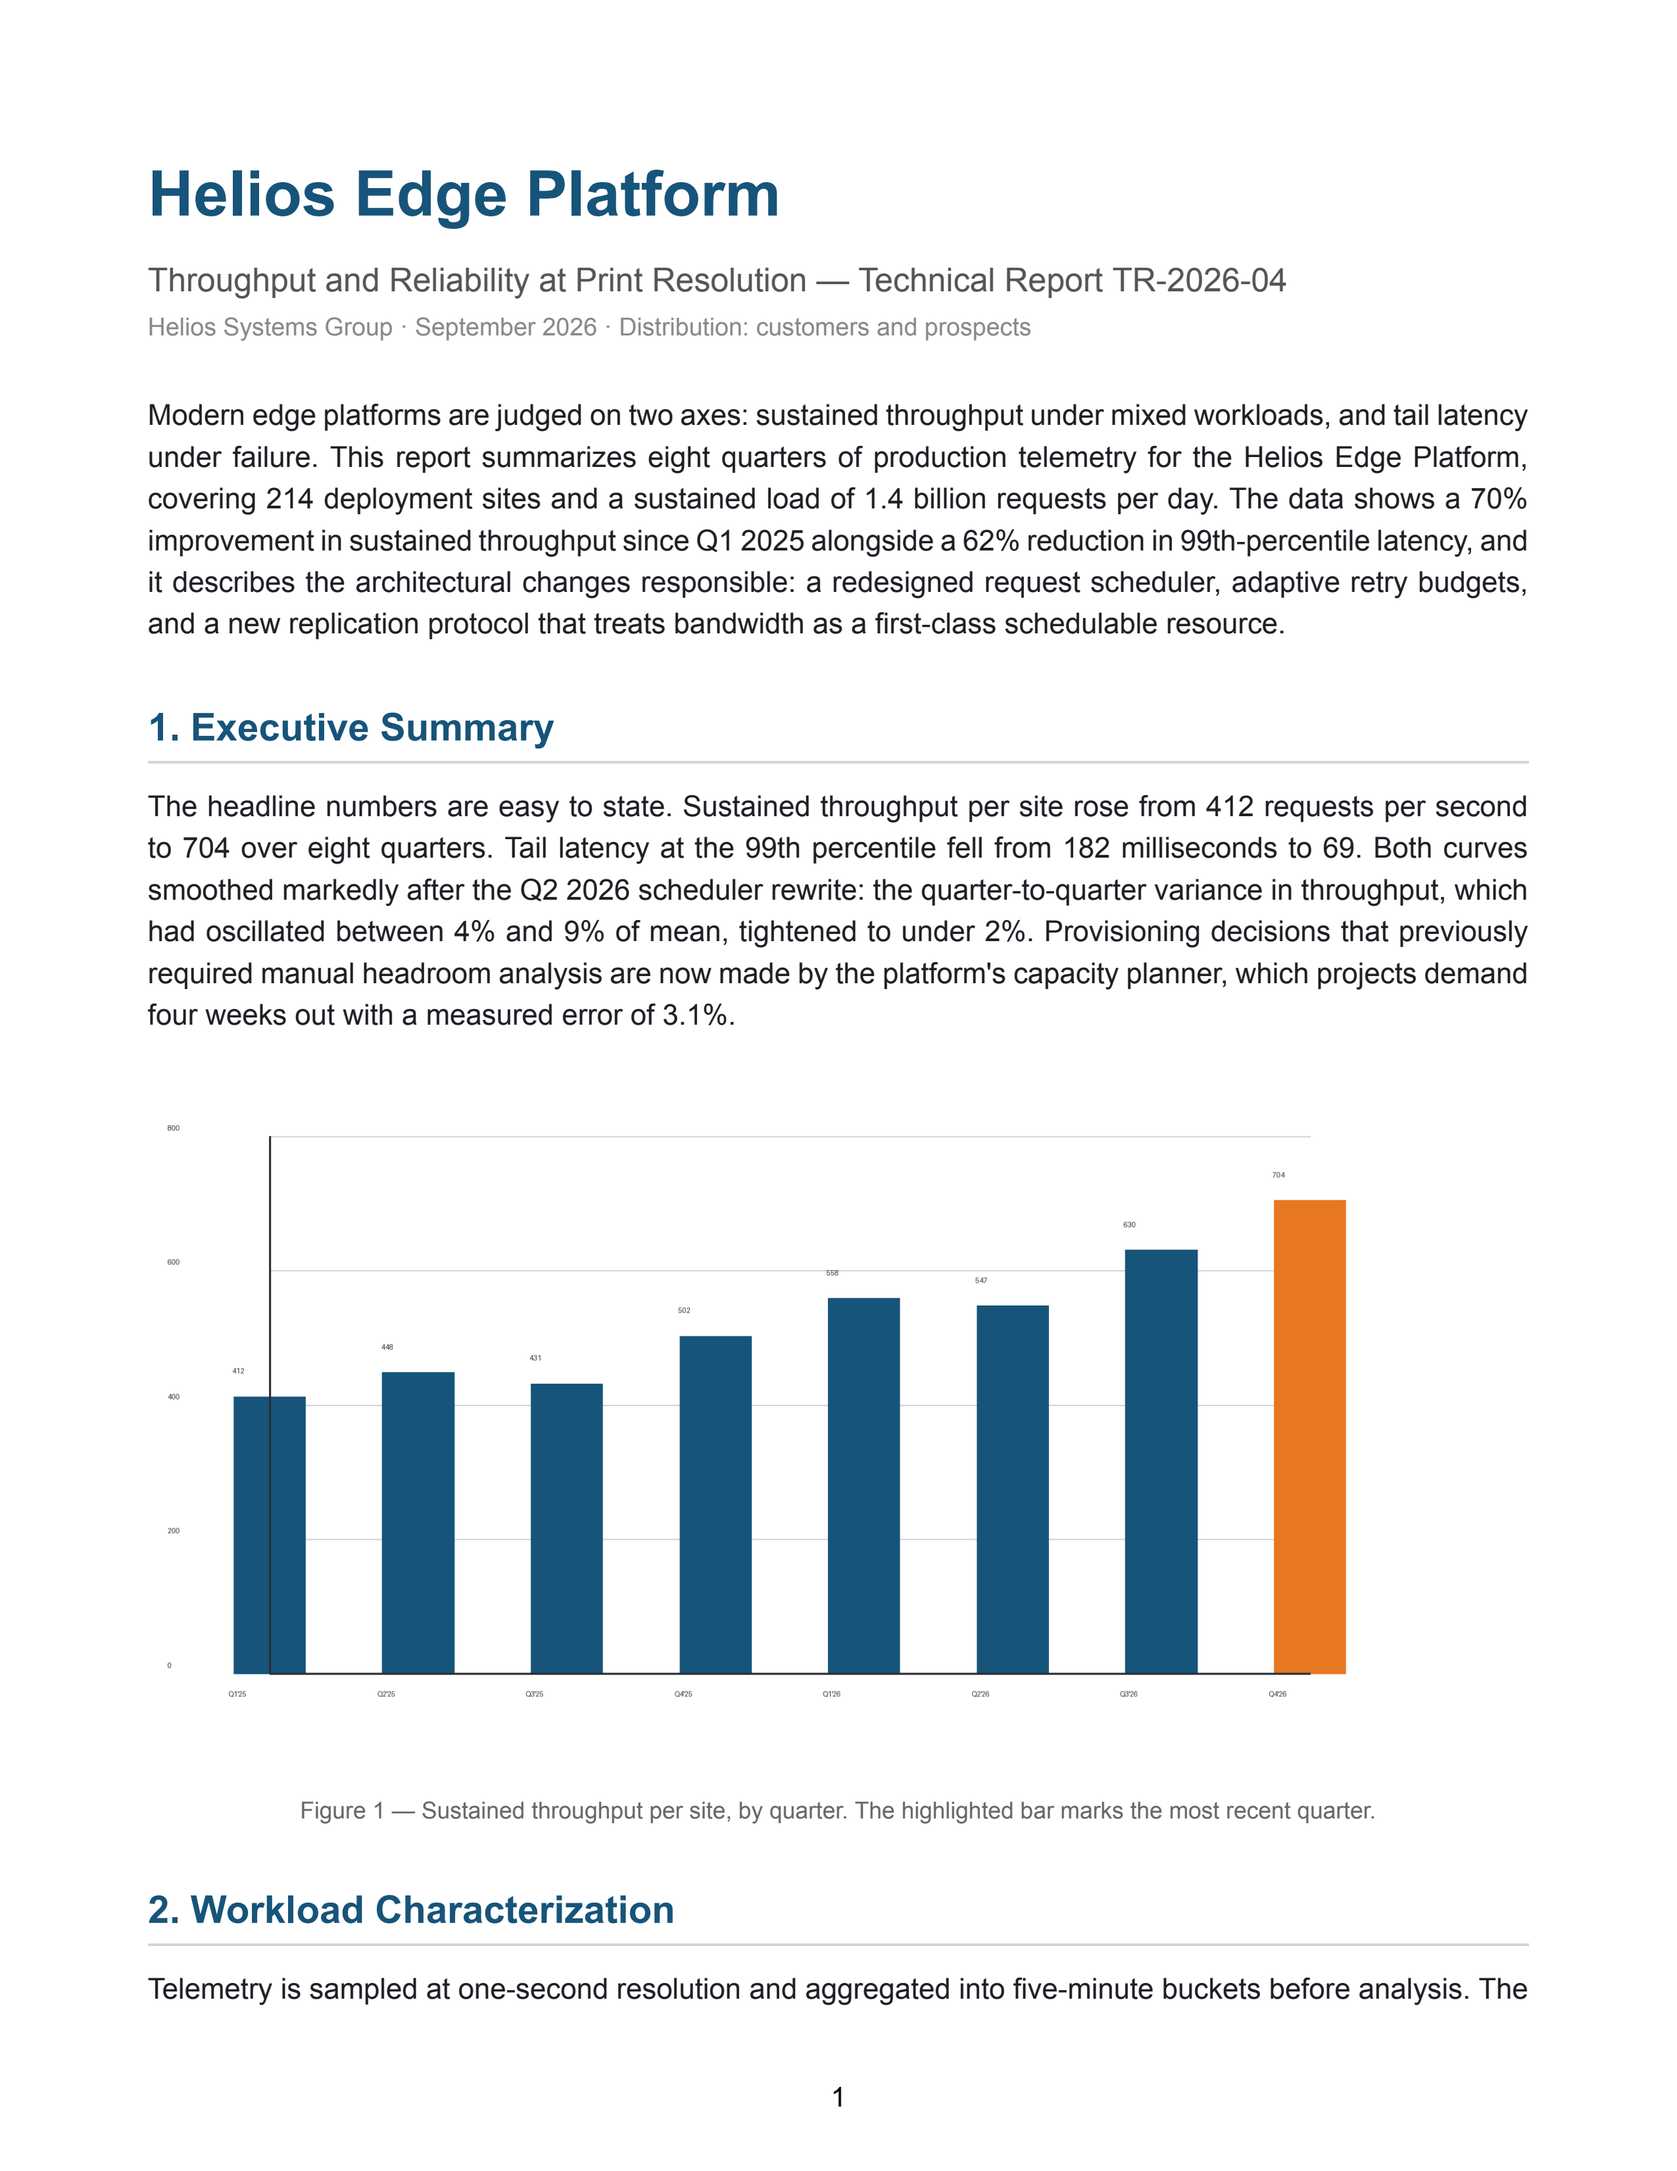
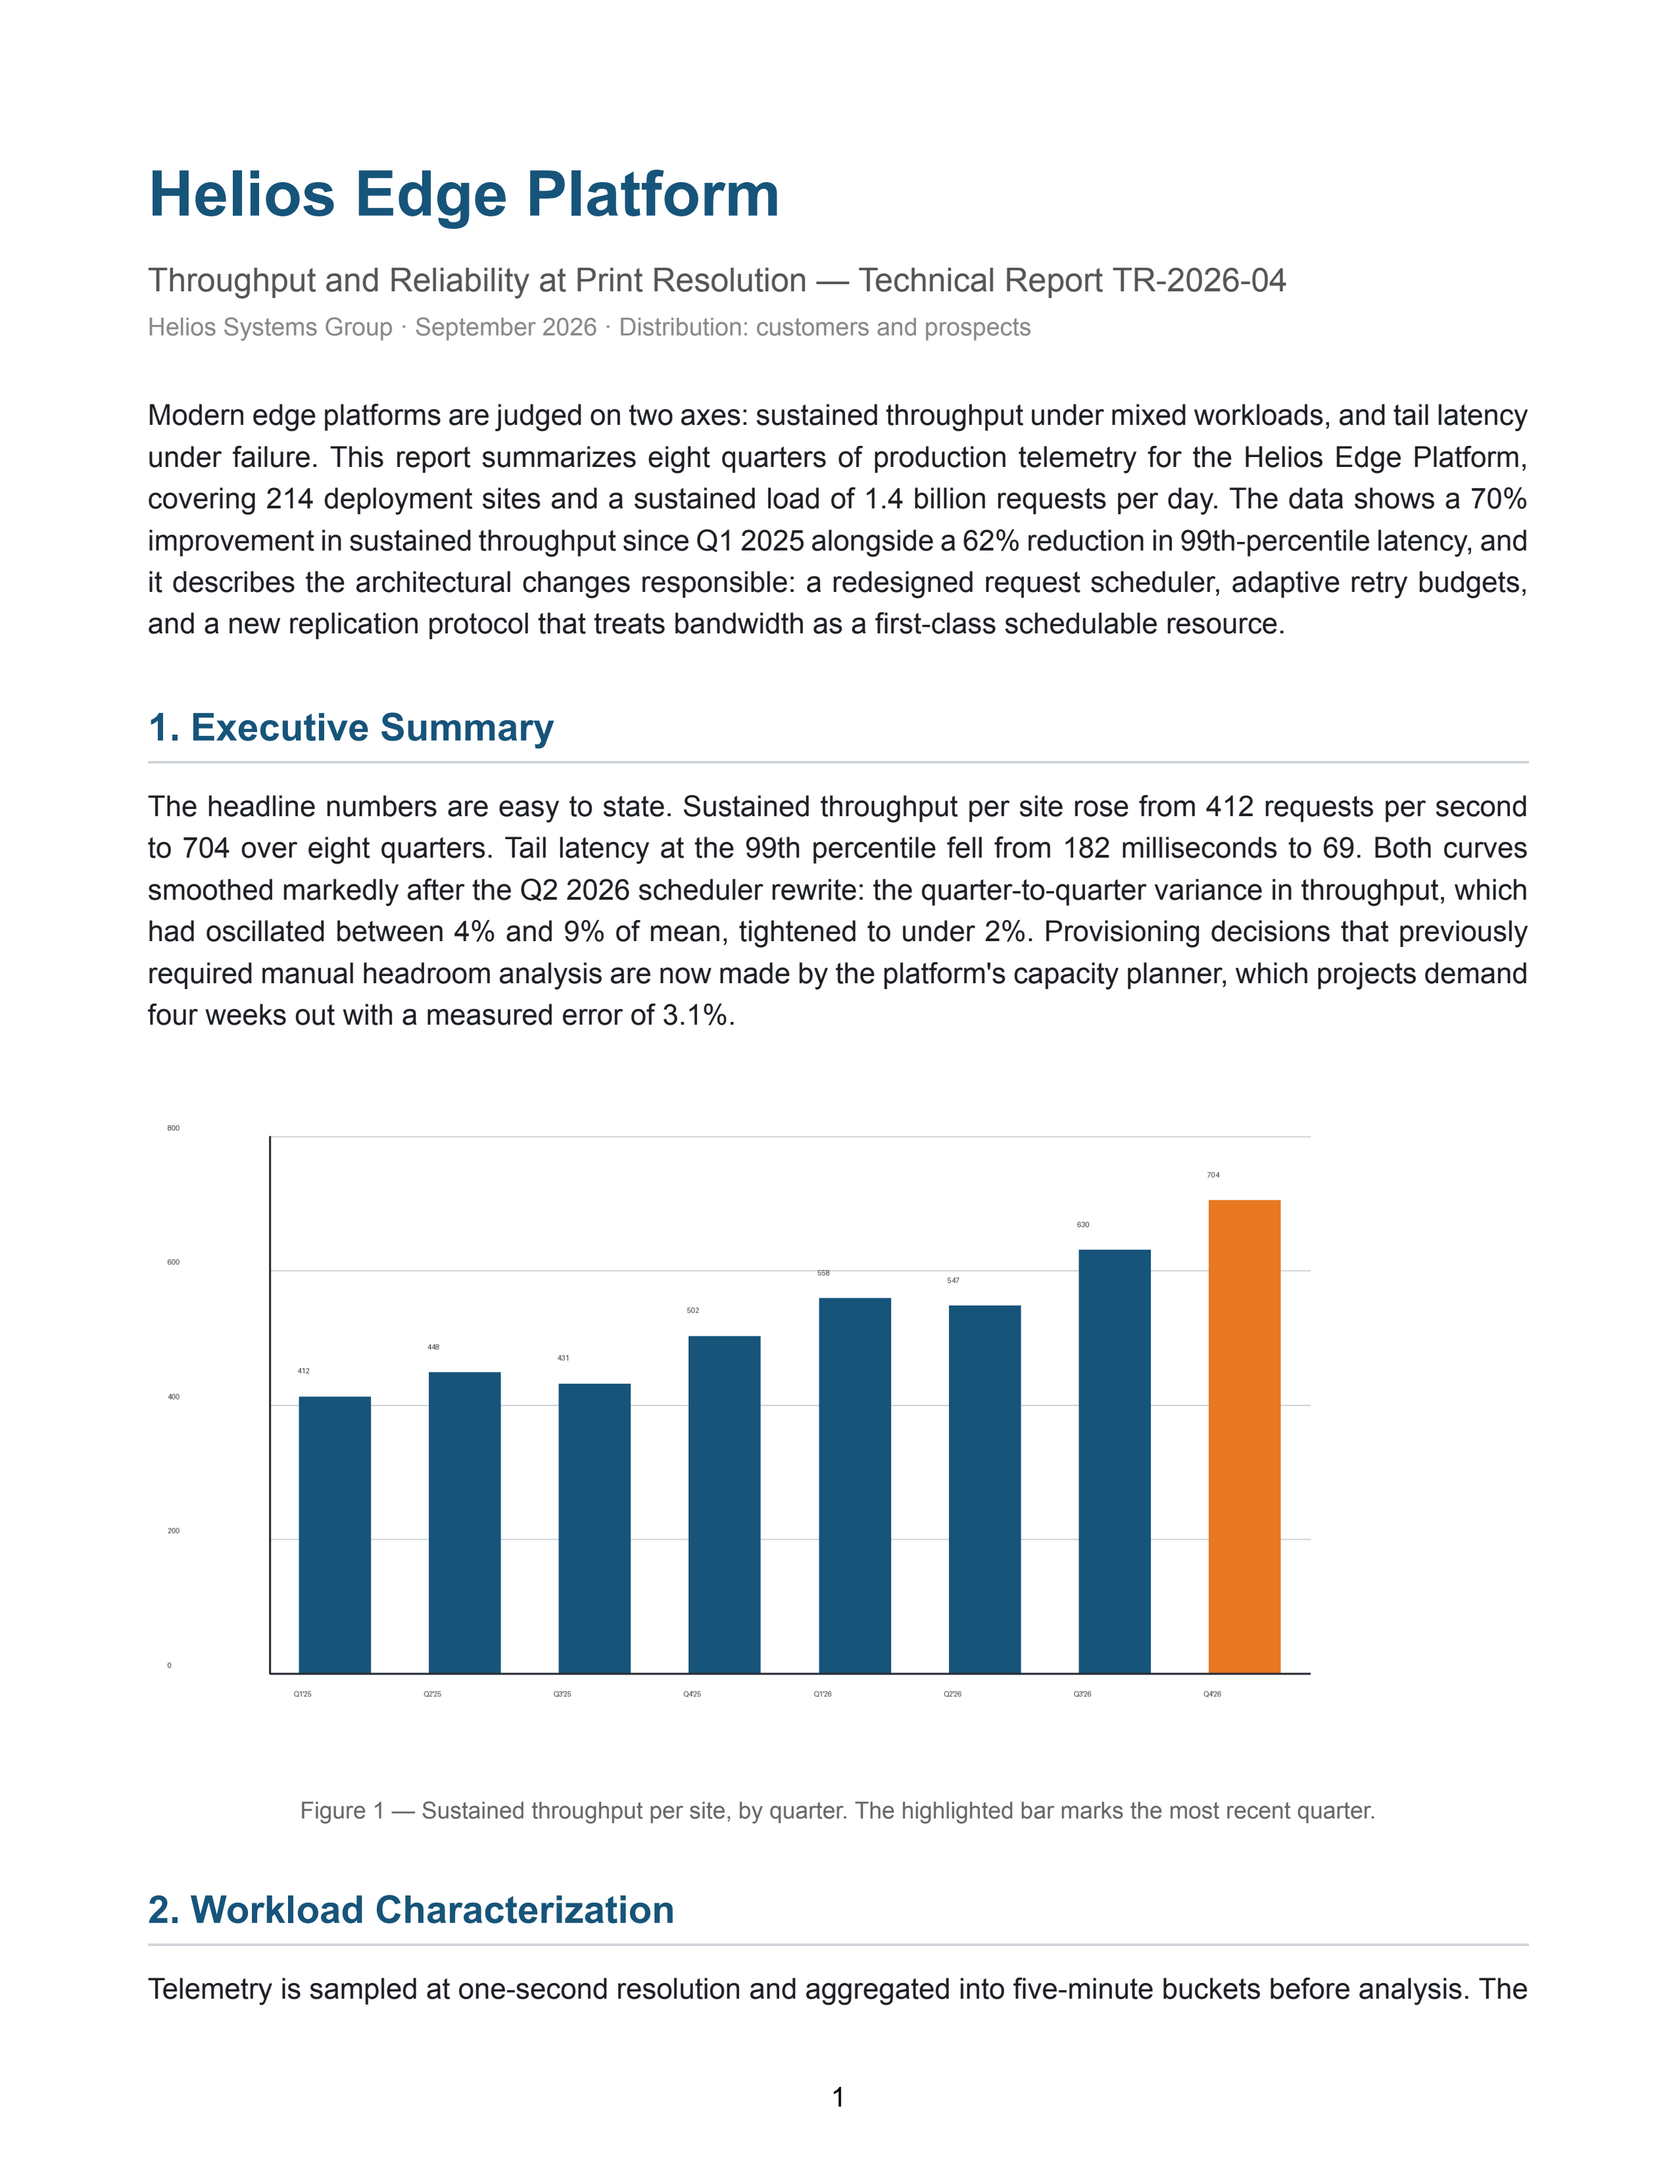
fix: showcase chart bars outside plot + known-issues preamble (CORE-148)
- assets/generate.py: bar_chart centered bars on the tick x-coordinate
  (xcoord(i) - bw/2), pushing bar 0 ~52px left of the y-axis and bar 8
  flush to the right plot edge. Bars now center inside their slot —
  pixel-verified first bar starts x=223 (axis 180), last ends 1475
  (edge 1710). Regenerated report-throughput.png + report page 1.
- demo/showcase/README.md: hand-maintained preamble with known engine
  gaps and their Linear tickets (CORE-150 multicol/footnote-band overlap,
  CORE-151 white-space:pre collapse, CORE-149 <br>), so the committed
  gallery explains its own residuals to viewers.
- CORE-151 filed: white-space: pre ignored (report config block renders
  as one run-on line instead of 6).

Changed region(s): [[0.5267, 0.5304, 0.8055, 0.7801], [0.1239, 0.5929, 0.4957, 0.7801]]

diff --git a/demo/showcase/assets/generate.py b/demo/showcase/assets/generate.py
@@ -45,8 +45,10 @@ def bar_chart():
         d.line([(left, y), (right, y)], fill=GRID, width=2)
         d.text((left - 150, y - 18), str(gy), fill=INK)
     bw = (right - left) / len(vals) * 0.55
+    slot = (right - left) / len(vals)
     for i, v in enumerate(vals):
-        x0 = xcoord(i, len(vals), left, right) - bw / 2
+        # Center the bar inside its slot (keeps bar 0 right of the y-axis).
+        x0 = left + slot * i + (slot - bw) / 2
         y0 = bottom - (bottom - top) * v / ymax
         color = TA_ACCENT if i == len(vals) - 1 else TA_BLUE
         d.rectangle([x0, y0, x0 + bw, bottom], fill=color)

diff --git a/demo/showcase/README.md b/demo/showcase/README.md
@@ -1,8 +1,31 @@
+# TypeAnvil Showcase — print-resolution renders
+
+Realistic-size pages (US Letter @ 300 DPI) rendered by the TypeAnvil
+engine only — no Prince comparison. Rebuild with
+`scripts/build-showcase.sh`. Generated pages live below the marker; this
+preamble is hand-maintained.
+
+## Known issues in these renders (engine gaps, tracked on Linear)
+
+- **Academic Sample, page 1 — text collision at the column bottom.**
+  Where the two-column section meets the footnote band, the columns fill
+  against the full page height and a column-bottom heading overlaps the
+  footnote text. [CORE-150](https://linear.app/whitelodge/issue/CORE-150).
+- **Technical Report — the config sample block renders as one run-on
+  line.** `white-space: pre` is not yet honored, so the 6-line config
+  collapses. [CORE-151](https://linear.app/whitelodge/issue/CORE-151).
+- Line-break (`<br>`) support: poster/book fixtures use block-span
+  workarounds. [CORE-149](https://linear.app/whitelodge/issue/CORE-149).
+
+The bar-chart bars-outside-plot issue (first/last bar crossing the axis,
+2026-09-08) was an asset-generation bug, fixed in
+`assets/generate.py` — charts are regenerated and correct.
+
 <!-- BEGIN GENERATED SHOWCASE -->
 
 ## Showcase — print-resolution renders (US Letter @ 300 DPI)
 
-Realistic-size pages rendered by the TypeAnvil engine only (commit `83238b3`). The side-by-side comparison gallery lives in [the main demo README](../README.md) and runs at 5in × 3in @ 96 DPI so diffs stay cheap; these pages show the same engine at the geometry documents actually print at. Prince renders only the comparison pipeline — the showcase is a TypeAnvil output gallery, not a diff target.
+Realistic-size pages rendered by the TypeAnvil engine only (commit `bb1991f`). The side-by-side comparison gallery lives in [the main demo README](../README.md) and runs at 5in × 3in @ 96 DPI so diffs stay cheap; these pages show the same engine at the geometry documents actually print at. Prince renders only the comparison pipeline — the showcase is a TypeAnvil output gallery, not a diff target.
 
 ### Book Sample
 

diff --git a/demo/showcase/out/index.md b/demo/showcase/out/index.md
@@ -1,6 +1,6 @@
 ## Showcase — print-resolution renders (US Letter @ 300 DPI)
 
-Realistic-size pages rendered by the TypeAnvil engine only (commit `83238b3`). The side-by-side comparison gallery lives in [the main demo README](../README.md) and runs at 5in × 3in @ 96 DPI so diffs stay cheap; these pages show the same engine at the geometry documents actually print at. Prince renders only the comparison pipeline — the showcase is a TypeAnvil output gallery, not a diff target.
+Realistic-size pages rendered by the TypeAnvil engine only (commit `bb1991f`). The side-by-side comparison gallery lives in [the main demo README](../README.md) and runs at 5in × 3in @ 96 DPI so diffs stay cheap; these pages show the same engine at the geometry documents actually print at. Prince renders only the comparison pipeline — the showcase is a TypeAnvil output gallery, not a diff target.
 
 ### Book Sample
 
